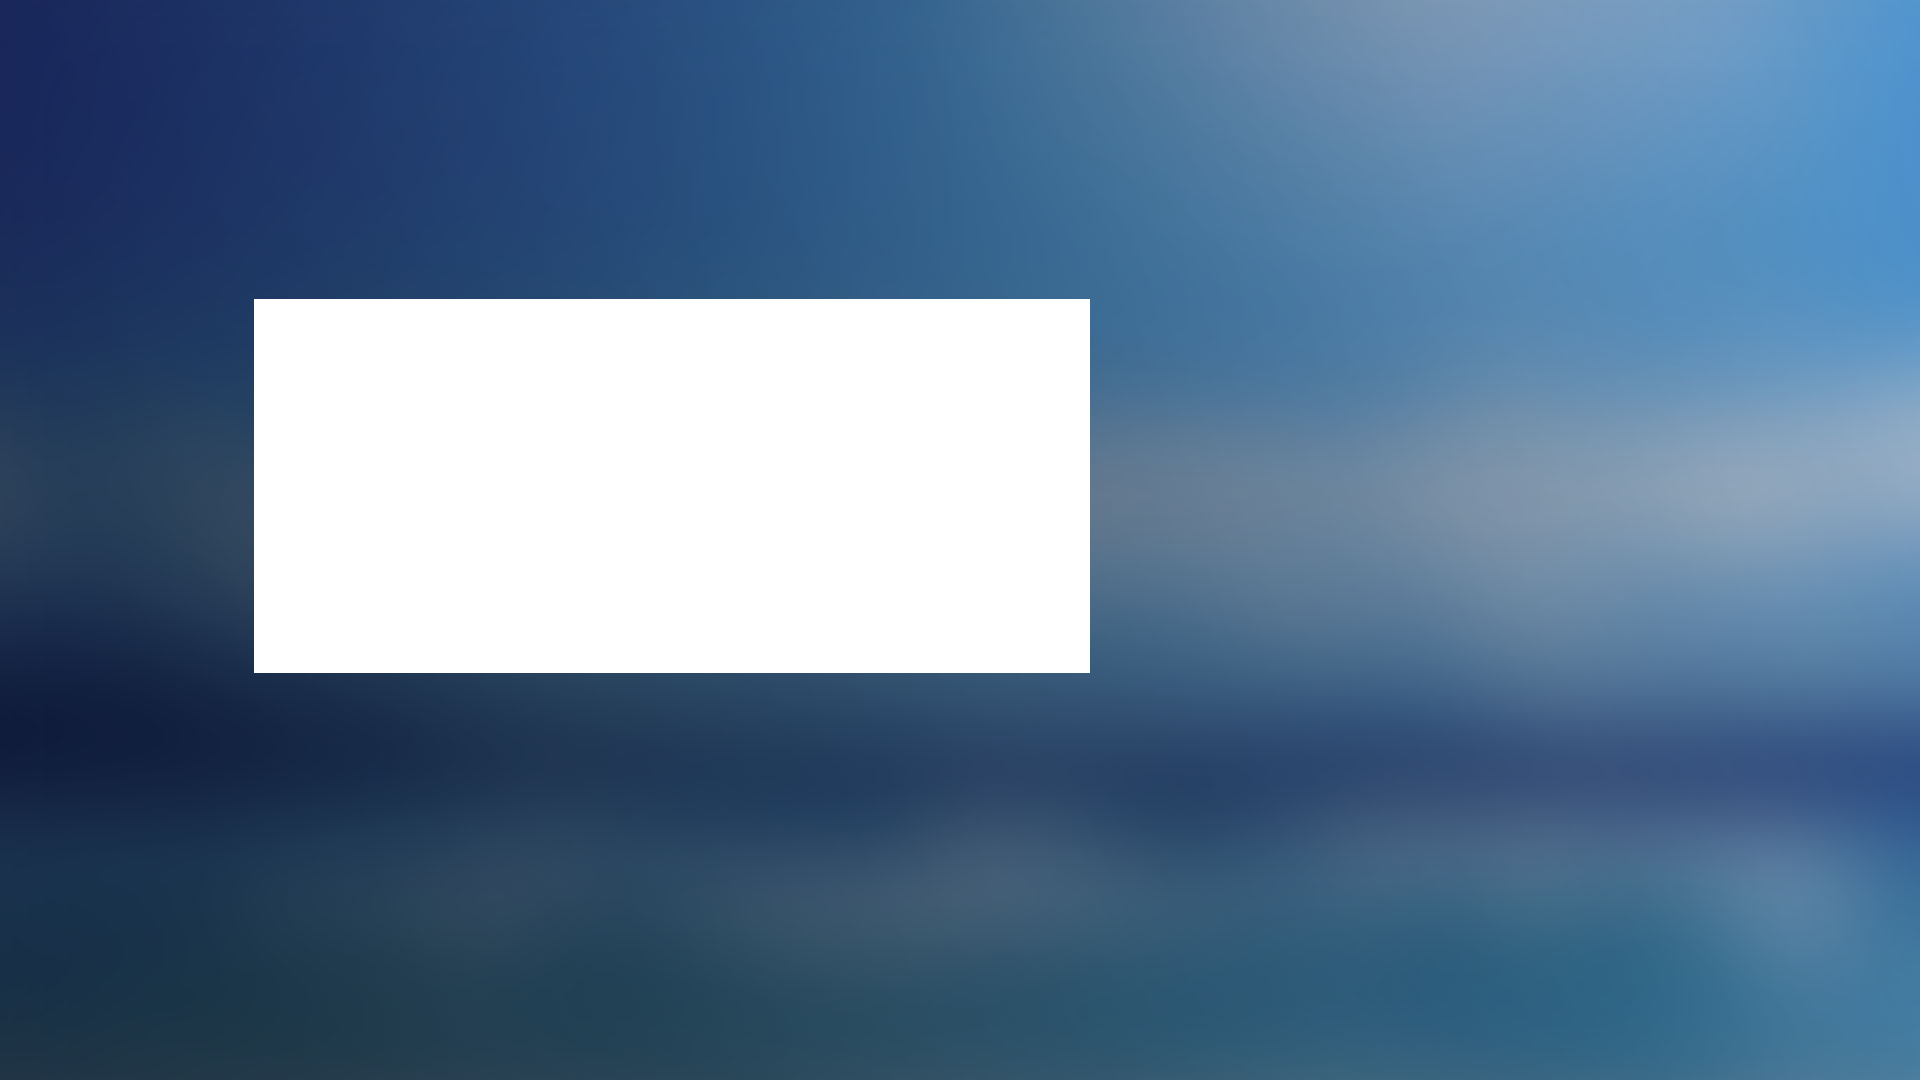
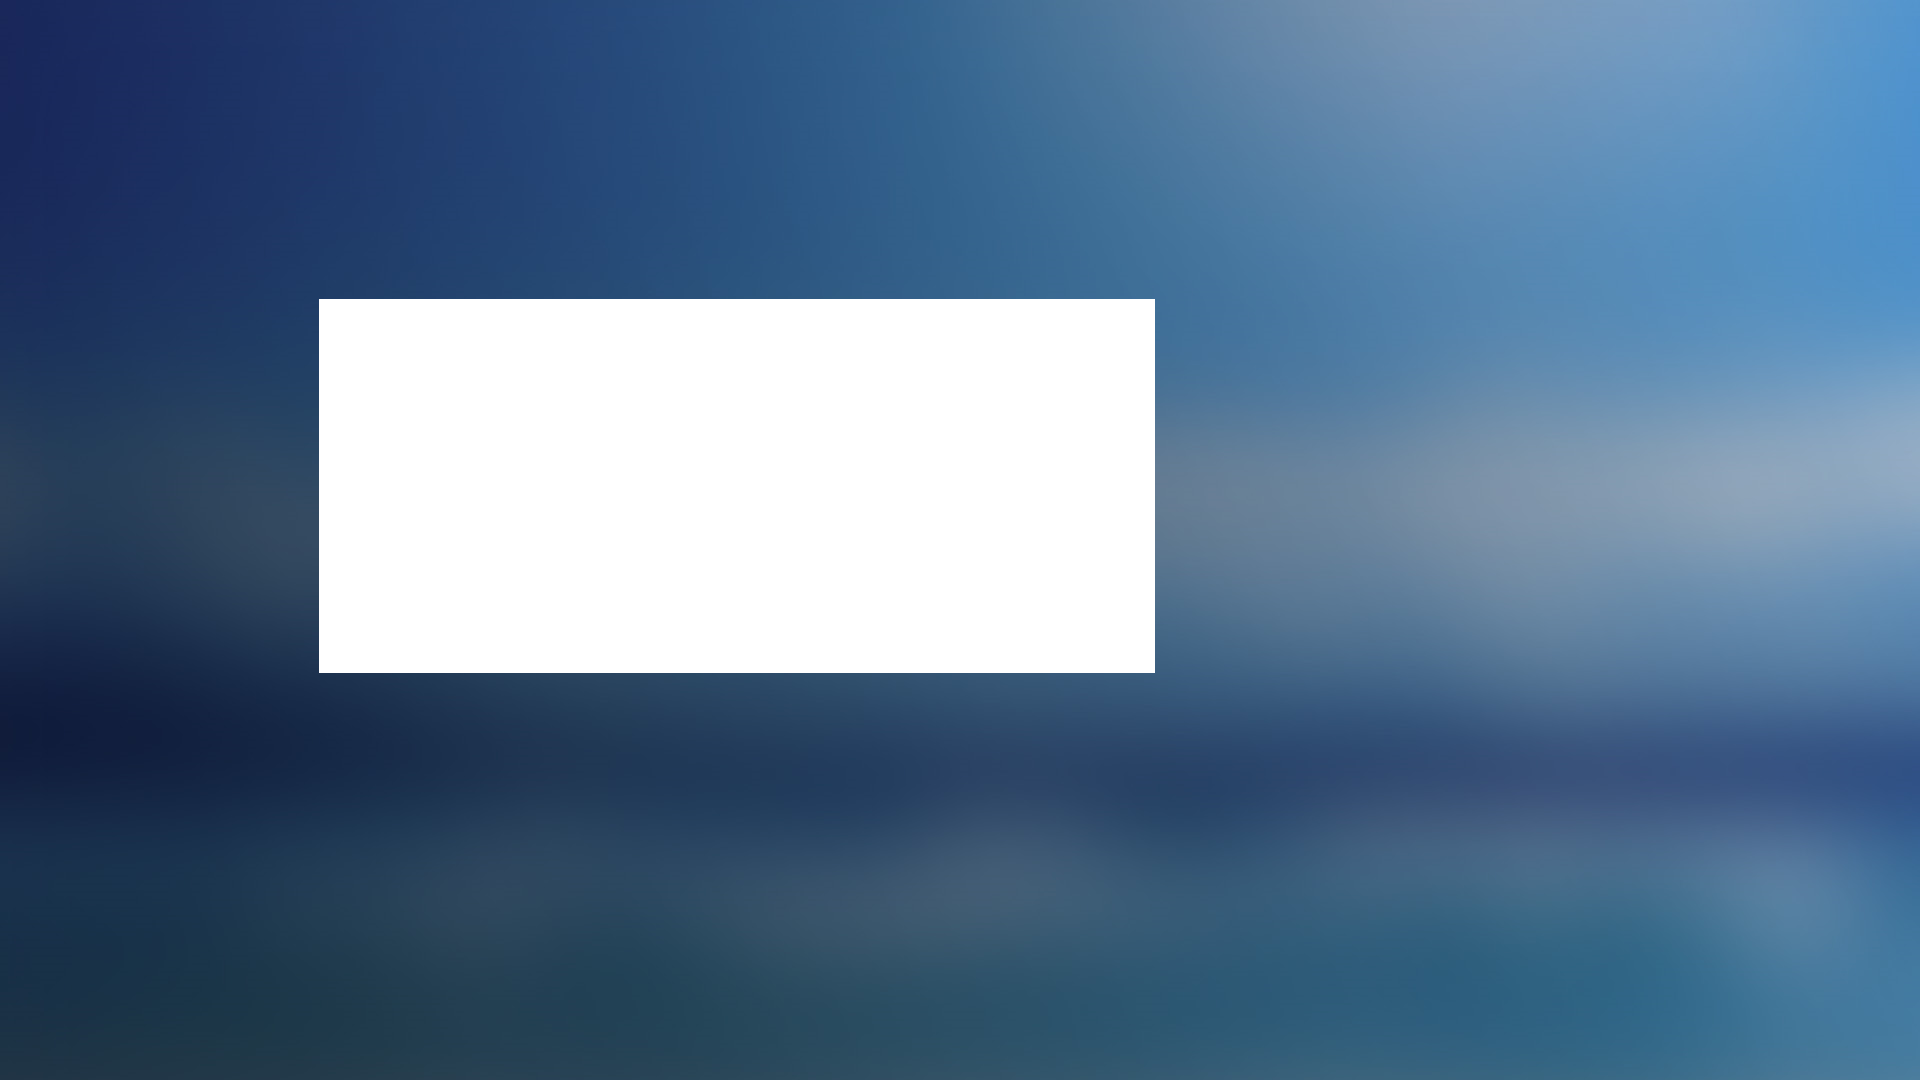
Implement part of ST-161 Implement issue ST-171

Changed region(s): [[0.125, 0.275, 0.1875, 0.6417], [0.5625, 0.275, 0.625, 0.6417]]

diff --git a/apps/com.LibertyGlobal.app.ContentDiscovery/Contents/Javascript/Controls/AssetCarouselControl.js b/apps/com.LibertyGlobal.app.ContentDiscovery/Contents/Javascript/Controls/AssetCarouselControl.js
@@ -24,12 +24,36 @@ var AssetCarouselControl = new MAF.Class({
 
 		generateCells: function() {
 			var view = this;
+			this.leftArrow = new MAF.element.Image({
+				source: 'Images/arrow_left.png',
+				styles: {
+					height: 63,
+					width: 63,
+					vOffset: 200,
+					hOffset: 0
+				}
+			}).appendTo(this);
+			this.leftArrow.hide();
+
+			this.rightArrow = new MAF.element.Image({
+				source: 'Images/arrow_right.png',
+				aspect: 'crop',
+				styles: {
+					height: 63,
+					width: 63,
+					vOffset: 200,
+					hOffset: 930
+				}
+			}).appendTo(this);
+			this.rightArrow.hide();
+
 			this.emptyFocusContainer = new AssetCarouselCellEmptyFocusControl({
 				styles: {
 					backgroundImage: 'Images/asset_background_future_focus.png',
 					backgroundColor: '#FFFFFF',
 					height: 474,
 					width: 843,
+					hOffset: 75,
 					padding: 5
 				},
 				events: {
@@ -46,6 +70,7 @@ var AssetCarouselControl = new MAF.Class({
 					backgroundColor: '#FFFFFF',
 					height: 474,
 					width: 843,
+					hOffset: 75,
 					padding: 5
 				}
 			}).appendTo(this);
@@ -53,6 +78,7 @@ var AssetCarouselControl = new MAF.Class({
 				styles: {
 					height: 498,
 					width: 843,
+					hOffset: 75,
 					borderStyle: 'solid',
 					borderWidth: 4,
 					borderColor: '#FFFFFF',
@@ -64,7 +90,7 @@ var AssetCarouselControl = new MAF.Class({
 					height: 'inherit',
 					width: 215,
 					vOffset: 45,
-					hOffset: 890
+					hOffset: 1010
 				}
 			}).appendTo(this);
 			this.cells.push(this.asset1Container);
@@ -73,7 +99,7 @@ var AssetCarouselControl = new MAF.Class({
 					height: 'inherit',
 					width: 215,
 					vOffset: 45,
-					hOffset: 1150
+					hOffset: 1270
 				}
 			}).appendTo(this);
 			this.cells.push(this.asset2Container);
@@ -82,7 +108,7 @@ var AssetCarouselControl = new MAF.Class({
 					height: 'inherit',
 					width: 215,
 					vOffset: 45,
-					hOffset: 1410
+					hOffset: 1530
 				}
 			}).appendTo(this);
 			this.cells.push(this.asset3Container);
@@ -91,12 +117,12 @@ var AssetCarouselControl = new MAF.Class({
 					height: 'inherit',
 					width: 215,
 					vOffset: 45,
-					hOffset: 1670
+					hOffset: 1790
 				}
 			}).appendTo(this);
 			this.cells.push(this.asset4Container);
 		},
-		displayFocussed: function(focussedData, menuItem) {
+		displayFocussed: function(focussedData, menuItem) {			
 			this.emptyFocusContainer.hide();
 			this.futureFocusContainer.hide();
 			this.currentFocusContainer.hide();
@@ -127,10 +153,21 @@ var AssetCarouselControl = new MAF.Class({
 			}
 		},
 		updateCells: function() {
+			this.leftArrow.hide();
+			this.rightArrow.hide();
 			for (var i = 0; i < this.cells.length; i++) {
 				this.cells[i].changeData(null);
 			}
 			this.displayFocussed(null);
+
+			if(this.focusIndex>0)
+			{
+				this.leftArrow.show();
+			}
+			if(this.mainCollection.length>0)
+			{
+				this.rightArrow.show();
+			}
 
 			var pos = 0; // unfocussed cells
 			var maxItems = (this.mainCollection.length >= 5) ? 4 : this.mainCollection.length - 1;
@@ -252,7 +289,16 @@ var AssetCarouselControl = new MAF.Class({
 		if (direction) {
 			switch (direction) {
 				case 'left':
-					this.fire('onNavigateLeft');
+					if (this.focusIndex - 1 >= 0)
+					{
+						this.focusIndex--;
+						this.updateCells();
+					}
+					else
+					{
+						this.focusIndex = 0;
+						this.fire('onNavigateLeft');
+					}
 					break;
 				case 'right':
 					if (this.focusIndex + 1 < this.mainCollection.length)
@@ -289,6 +335,8 @@ var AssetCarouselControl = new MAF.Class({
 		delete this.menuItemText;
 		delete this.menuItemTimeWindow;
 		delete this.mainCollection;
+		delete this.leftArrow;
+		delete this.rightArrow;
 		delete this.currentFocusContainer;
 		delete this.futureFocusContainer;
 		delete this.emptyFocusContainer;

diff --git a/apps/com.LibertyGlobal.app.ContentDiscovery/Contents/Javascript/Views/InfoScreen.js b/apps/com.LibertyGlobal.app.ContentDiscovery/Contents/Javascript/Views/InfoScreen.js
@@ -3,7 +3,7 @@ var InfoScreen = new MAF.Class({
 	Extends: MAF.system.FullscreenView,
 
 	// Add array of items on constructor of the class
-	initialize: function() {
+	initView: function() {
 		var view = this;
 		view.parent();
 		view.assetId = this.persist.assetId;
@@ -34,11 +34,14 @@ var InfoScreen = new MAF.Class({
 						}
 					}
 
+					//screen.log("hide reminder");
 					view.ReminderImage.hide();
 					if (view.isLive) {
+						//screen.log("is live");
 						view.controls.horizontalMenu.config.button1Text = $_('InfoScreen_Button_View_Now_Text');
 					} else {
 						if (ReminderHandler.isReminderSet(view.asset.id) === true) {
+							//screen.log("reminder set");
 							view.controls.horizontalMenu.config.button1Text = $_('InfoScreen_Button_Remove_Reminder_Text');
 							view.ReminderImage.show();
 						} else {

diff --git a/apps/com.LibertyGlobal.app.ContentDiscovery/Contents/Javascript/Controls/AssetCarouselCellCurrentFocusControl.js b/apps/com.LibertyGlobal.app.ContentDiscovery/Contents/Javascript/Controls/AssetCarouselCellCurrentFocusControl.js
@@ -127,7 +127,7 @@ var AssetCarouselCellCurrentFocusControl = new MAF.Class({
 		if (data !== null) {
 			this.displayData = data;
 			if (data.video !== null) {
-				MAF.mediaplayer.setViewportBounds(254, 301, 836, 374);
+				MAF.mediaplayer.setViewportBounds(319, 301, 836, 374);
 				MAF.mediaplayer.setChannelByNumber(data.channel.logicalPosition);
 				
 				this.Title.setText(data.video.title);
@@ -157,7 +157,7 @@ var AssetCarouselCellCurrentFocusControl = new MAF.Class({
 	},
 
 	updateVideo: function() {
-		MAF.mediaplayer.setViewportBounds(254, 301, 836, 374);
+		MAF.mediaplayer.setViewportBounds(319, 301, 836, 374);
 	},
 
 	updateProgress: function(view) {

diff --git a/apps/com.LibertyGlobal.app.ContentDiscovery/Contents/Javascript/Views/MainScreen.js b/apps/com.LibertyGlobal.app.ContentDiscovery/Contents/Javascript/Views/MainScreen.js
@@ -2,7 +2,7 @@ var MainScreen = new MAF.Class({
 	ClassName: 'MainScreen',
 	Extends: MAF.system.FullscreenView,
 
-	initialize: function() {
+	initView: function() {
 		//screen.log("reminderhandler: " + ReminderHandler.handleCall2Action + ", " + ReminderHandler.handleCall2ActionChannelNr);
 		// if (ReminderHandler.handleCall2Action !== null && ReminderHandler.handleCall2Action !== undefined) {
 		// if (ReminderHandler.handleCall2Action === true) {
@@ -200,7 +200,7 @@ var MainScreen = new MAF.Class({
 				height: 498,
 				width: 'inherit',
 				vOffset: 296,
-				hOffset: 10
+				hOffset: 0
 			},
 			events: {
 				onAssetChanged: function(eventData) {

diff --git a/apps/com.LibertyGlobal.app.ContentDiscovery/Contents/Javascript/Controls/SidebarControl.js b/apps/com.LibertyGlobal.app.ContentDiscovery/Contents/Javascript/Controls/SidebarControl.js
@@ -225,8 +225,7 @@ var SidebarControl = new MAF.Class({
 		this.collapse();
 		this.isCollapsed = true;
 		this.focussedButton = "switch";
-		this.collapsedprofileImage.setSource(ConfigurationStorageHandler.getProfileImage());
-		this.expandedprofileImage.setSource(ConfigurationStorageHandler.getProfileImage());
+		this.updateProfilePicture();
 	},
 
 	setProfileName: function(profileName) {

diff --git a/index.html b/index.html
@@ -28,7 +28,9 @@ MAE = {
 		'com.metrological.app.Rooms',
 		'com.libertyglobal.app.ContentDiscovery',
 		'com.libertyglobal.widget.SocialTv',
-		'com.metrological.widgets.tv.Thuuz'
+		'com.metrological.widgets.tv.Thuuz',
+		'com.libertyglobal.app.OptIn',
+		'com.libertyglobal.app.Halloween'
 	]
 };
 </script>

diff --git a/apps/com.LibertyGlobal.app.ContentDiscovery/Contents/Javascript/Views/ShareScreen.js b/apps/com.LibertyGlobal.app.ContentDiscovery/Contents/Javascript/Views/ShareScreen.js
@@ -3,7 +3,7 @@ var ShareScreen = new MAF.Class({
 	Extends: MAF.system.FullscreenView,
 
 	// Add array of items on constructor of the class
-	initialize: function() {
+	initView: function() {
 		var view = this;
 		view.shareTextArray = [];
 		view.currentItem = null;

diff --git a/apps/com.LibertyGlobal.app.ContentDiscovery/Contents/Javascript/Views/CastScreen.js b/apps/com.LibertyGlobal.app.ContentDiscovery/Contents/Javascript/Views/CastScreen.js
@@ -3,7 +3,7 @@ var CastScreen = new MAF.Class({
 	Extends: MAF.system.FullscreenView,
 
 	// Add array of items on constructor of the class
-	initialize: function() {
+	initView: function() {
 		var view = this;
 		view.parent();
 		view.alsoKnown = [{

diff --git a/apps/com.LibertyGlobal.app.ContentDiscovery/Contents/Javascript/Views/FullBiography.js b/apps/com.LibertyGlobal.app.ContentDiscovery/Contents/Javascript/Views/FullBiography.js
@@ -3,7 +3,7 @@ var FullBiography = new MAF.Class({
 	Extends: MAF.system.FullscreenView,
 
 	// Add array of items on constructor of the class
-	initialize: function() {
+	initView: function() {
 		var view = this;
 		view.parent();
 	},

diff --git a/apps/com.LibertyGlobal.app.ContentDiscovery/Contents/Javascript/Views/FullSynopsis.js b/apps/com.LibertyGlobal.app.ContentDiscovery/Contents/Javascript/Views/FullSynopsis.js
@@ -3,7 +3,7 @@ var FullSynopsis = new MAF.Class({
 	Extends: MAF.system.FullscreenView,
 
 	// Add array of items on constructor of the class
-	initialize: function() {
+	initView: function() {
 		var view = this;
 		view.parent();
 	},

diff --git a/apps/com.LibertyGlobal.app.ContentDiscovery/Contents/Javascript/Views/PopupScreen.js b/apps/com.LibertyGlobal.app.ContentDiscovery/Contents/Javascript/Views/PopupScreen.js
@@ -3,7 +3,7 @@ var PopupScreen = new MAF.Class({
 	Extends: MAF.system.FullscreenView,
 
 	// Add array of items on constructor of the class
-	initialize: function() {
+	initView: function() {
 		var view = this;
 		view.parent();
 	},
